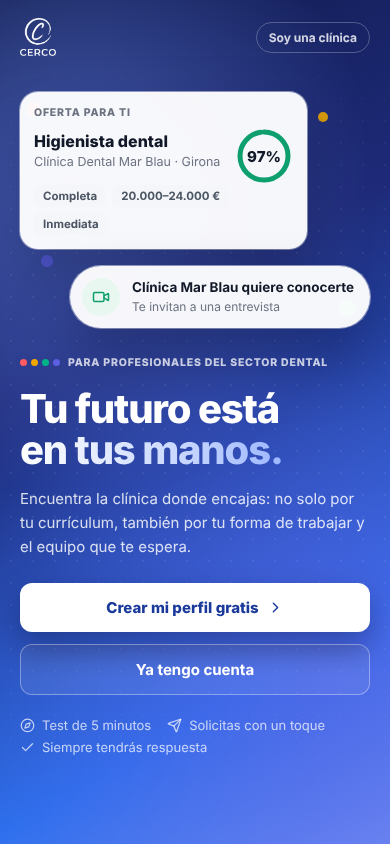
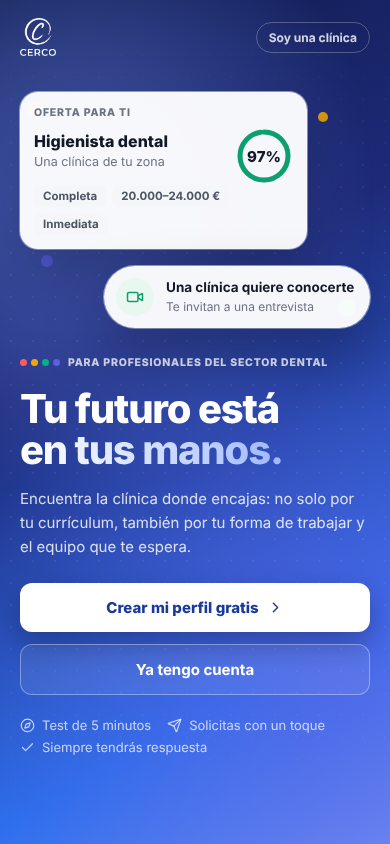
Profesional: sin datos inventados, y una cuenta de clínica siempre ve el aviso
- Una cuenta con ficha de clínica cuenta como clínica aunque aún no la
  haya configurado (antes hacía falta que tuviera nombre, y una clínica
  sin configurar entraba como si fuera profesional): ve «Esta cuenta es
  de una clínica».
- Fuera las ofertas de ejemplo del código y los textos «(de ejemplo)» de
  Seimian.
- Portada: el mismo dibujo, sin una clínica inventada («Una clínica de
  tu zona», «Una clínica quiere conocerte»). Captura de la portada
  actualizada.
Prueba nueva (64-sin-datos-inventados, parte del profesional), que
fallaba antes.

Claude-Session: https://claude.ai/code/session_01L5qSpH5ECCjMh1xfSpjWDJ

Changed region(s): [[0.1538, 0.3081, 0.8308, 0.4005], [0.0923, 0.1848, 0.4308, 0.2156], [0.4615, 0.1848, 0.5538, 0.2156]]

diff --git a/pruebas/e2e/64-sin-datos-inventados.spec.js b/pruebas/e2e/64-sin-datos-inventados.spec.js
@@ -1,0 +1,67 @@
+// En la web real (con «Datos de ejemplo» apagado) nunca salen datos inventados:
+// ni candidatos, ni ofertas, ni clínicas. Y una cuenta de clínica que entra en el
+// lado del profesional ve un aviso claro de que esa cuenta es de clínica.
+const { test, expect, nuevaVentana, vaciarEmulador } = require('../apoyo/entorno');
+const A = require('../apoyo/acciones');
+
+const INVENTADOS = ['María García', 'Jana Moreno', 'Lucía Pérez', 'Ana Castro', 'Marcos Roca', 'Elena Navarro',
+  'David Vidal', 'Paula Solís', 'Óscar Gallego', 'Carmen Ruiz', 'Íñigo Fernández', 'Nerea Blanco',
+  'Mar Blau', 'Madrid Centro', 'Dental Retiro', 'Odontológico Sants', '23 candidatos'];
+async function sinInventados(page, donde) {
+  const texto = await page.evaluate(() => document.body.innerText);
+  for (const n of INVENTADOS) expect(texto.includes(n), `«${n}» sale en ${donde}`).toBe(false);
+}
+
+test('Clínica sin «Datos de ejemplo»: ninguna pantalla enseña datos inventados', async ({ browser }, testInfo) => {
+  await vaciarEmulador();
+  const v = await nuevaVentana(browser, testInfo), c = v.page;
+  await A.registrarClinica(c, `real-${testInfo.project.name}@prueba.es`);
+  await A.configurarClinica(c, {}, { ...A.CLINICA, clinica: 'Clínica Real' });
+  for (const s of ['inicio', 'ofertes', 'portal', 'agenda', 'equipo', 'stats', 'herramientas', 'onboarding', 'publicat', 'mi-cuenta']) {
+    await c.evaluate((s) => { const m = document.getElementById('global-chat-modal'); if (m) m.remove(); showScreen(s); }, s);
+    await c.waitForTimeout(600);
+    await sinInventados(c, 'la pantalla ' + s);
+  }
+  // Candidatos: sin candidatos reales, ni tarjetas ni cuentas inventadas, y se explica cuándo aparecen
+  await c.evaluate(() => showScreen('portal'));
+  await expect(c.locator('#screen-portal .candidate-card').locator('visible=true')).toHaveCount(0);
+  await expect(c.locator('#screen-portal')).not.toContainText('(12)');
+  await expect(c.locator('#portal-aviso-real')).toContainText('Aquí aparecerán las personas que soliciten tus ofertas.');
+  await expect(c.locator('#portal-aviso-real')).toContainText('que las clínicas me inviten');
+  expect(c.erroresPagina).toEqual([]);
+  await v.context.close();
+});
+
+test('Lado del profesional: sin datos inventados, y una cuenta de clínica ve el aviso', async ({ browser }, testInfo) => {
+  test.skip(testInfo.project.name !== 'ordenador', 'basta con un tamaño de pantalla');
+  await vaciarEmulador();
+  // Una cuenta de clínica recién creada, todavía sin configurar
+  const vc = await nuevaVentana(browser, testInfo);
+  await A.registrarClinica(vc.page, 'clinica-sin-configurar@prueba.es');
+  await vc.page.waitForTimeout(2000); // lo que tarda en crear su ficha
+  await vc.context.close();
+  const v = await nuevaVentana(browser, testInfo), p = v.page;
+  await p.goto('/candidato.html');
+  await sinInventados(p, 'la portada');
+  await p.evaluate(() => ir('login'));
+  await p.fill('#li-email', 'clinica-sin-configurar@prueba.es');
+  await p.fill('#li-pwd', A.CLINICA.pwd);
+  await p.click('#li-btn');
+  await expect(p.locator('#v-esclinica')).toBeVisible({ timeout: 20_000 });
+  await expect(p.locator('#v-esclinica')).toContainText('Esta cuenta es de una clínica');
+  // Un profesional, sin ninguna oferta publicada: ninguna oferta inventada
+  const w = await nuevaVentana(browser, testInfo), q = w.page;
+  await A.registrarProfesional(q, 'pro-real@prueba.es');
+  await A.altaProfesional(q);
+  await q.check('#t-consent'); await q.getByRole('button', { name: 'Empezar el test' }).click();
+  await A.contestarTestProfesional(q, { pesos: { D: 1, I: 3, S: 2, C: 4 } });
+  await q.click('#tr-btn'); await q.locator('#gu-next').waitFor(); await q.evaluate(() => guiaCerrar());
+  for (const s of ['inicio', 'ofertas', 'descubrir', 'solicitudes', 'perfil']) {
+    await q.evaluate((s) => ir(s), s); await q.waitForTimeout(800);
+    await sinInventados(q, 'la pantalla ' + s + ' del profesional');
+  }
+  await expect(q.locator('#v-ofertas')).toContainText('Todavía no hay ofertas publicadas');
+  expect(p.erroresPagina).toEqual([]);
+  expect(q.erroresPagina).toEqual([]);
+  await v.context.close(); await w.context.close();
+});

diff --git a/public/profesional/01b-estado-navegacion-y-acceso.js b/public/profesional/01b-estado-navegacion-y-acceso.js
@@ -8,14 +8,7 @@ var S = { perfil:null, ofertas:[], ofertasCargadas:false, sols:[], solsCargadas:
 var _unsubSol = null;
 var _estadosVistos = {}, _msgsVistos = {}, _citasVistas = {};
 
-var EJEMPLOS = [
-  {id:'ej1', ejemplo:true, titulo:'Higienista dental', clinica:'Clínica Dental Mar Blau', ubicacion:'Girona', jornada:'Completa', salario:'20.000–24.000 €', disponibilidad:'Inmediata', perfiles:['I','S'],
-   descripcion:'Buscamos higienista para un equipo de seis personas. Trato muy cercano con el paciente, agenda bien organizada y formación continua pagada por la clínica.', requisitos:'Técnico Superior en Higiene Bucodental\nExperiencia en periodoncia valorable\nGanas de trabajar en equipo', fecha:new Date(Date.now()-2*86400000).toISOString()},
-  {id:'ej2', ejemplo:true, titulo:'Auxiliar de clínica dental', clinica:'Centro Odontológico Sants', ubicacion:'Barcelona', jornada:'Parcial', salario:'A convenir', disponibilidad:'En 15 días', perfiles:['S','C'],
-   descripcion:'Asistencia en gabinete, esterilización y preparación de material. Horario de tardes.', requisitos:'Título de Auxiliar de Enfermería o similar\nRigor con los protocolos de esterilización', fecha:new Date(Date.now()-5*86400000).toISOString()},
-  {id:'ej3', ejemplo:true, titulo:'Coordinador/a de recepción', clinica:'Clínica Dental Retiro', ubicacion:'Madrid', jornada:'Completa', salario:'22.000 €', disponibilidad:'En 1 mes', perfiles:['D','I'],
-   descripcion:'Llevarás la agenda de cuatro doctores, la relación con los pacientes y los presupuestos.', requisitos:'Experiencia en atención al paciente\nManejo de software de gestión clínica', fecha:new Date(Date.now()-86400000).toISOString()}
-];
+// (Las ofertas de ejemplo se han quitado: en la web real nunca salen datos inventados.)
 
 /* Ofertas que se ven: todas menos las de clínicas que la persona ha bloqueado (Fase 1: una sola versión) */
 function ofertasVisibles(){
@@ -59,7 +52,7 @@ function ofertasCerca(l){
   return { dentro:dentro, fuera:fuera };
 }
 function buscarOferta(id){
-  var l = S.ofertas.concat(EJEMPLOS);
+  var l = S.ofertas;
   for(var i=0;i<l.length;i++) if(String(l[i].id) === String(id)) return l[i];
   return null;
 }

diff --git a/candidato.html b/candidato.html
@@ -68,7 +68,7 @@
       <span class="po-orb" style="width:12px;height:12px;background:#5B5FE0;left:6%;bottom:30%;animation-delay:-9s;"></span>
       <div class="pc pc-of">
         <div class="pc-k">Oferta para ti</div>
-        <div class="row"><div style="min-width:0;"><div class="t">Higienista dental</div><div class="c">Clínica Dental Mar Blau · Girona</div></div>
+        <div class="row"><div style="min-width:0;"><div class="t">Higienista dental</div><div class="c">Una clínica de tu zona</div></div>
           <svg width="58" height="58" viewBox="0 0 58 58" style="flex-shrink:0;"><circle cx="29" cy="29" r="24" fill="none" stroke="#EEF0F3" stroke-width="5"/><circle cx="29" cy="29" r="24" fill="none" stroke="#0E9F6E" stroke-width="5" stroke-linecap="round" stroke-dasharray="146.3 150.8" transform="rotate(-90 29 29)"/><text x="50%" y="50%" dominant-baseline="central" text-anchor="middle" font-size="15" font-weight="800" fill="#111827">97%</text></svg></div>
         <div class="tags"><span>Completa</span><span>20.000–24.000 €</span><span>Inmediata</span></div>
       </div>
@@ -80,7 +80,7 @@
         <div class="br"><span style="color:#5B5FE0">C</span><div class="tr"><div style="width:44%;background:#5B5FE0"></div></div><span>44%</span></div>
         <div class="br"><span style="color:#FF5A5F">D</span><div class="tr"><div style="width:31%;background:#FF5A5F"></div></div><span>31%</span></div>
       </div>
-      <div class="pc pc-noti"><div class="ic"><span data-ico="video" data-s="18" data-c="#0E9F6E"></span></div><div><b>Clínica Mar Blau quiere conocerte</b><small>Te invitan a una entrevista</small></div></div>
+      <div class="pc pc-noti"><div class="ic"><span data-ico="video" data-s="18" data-c="#0E9F6E"></span></div><div><b>Una clínica quiere conocerte</b><small>Te invitan a una entrevista</small></div></div>
     </div>
   </div>
 </section>

diff --git a/public/profesional/01f-seimian-cita-y-mensajes.js b/public/profesional/01f-seimian-cita-y-mensajes.js
@@ -163,8 +163,7 @@ function seiOfertas(d){
     .map(function(o){ return {o:o, p:encaje(d, o)}; }).filter(function(x){ return x.p !== null; })
     .sort(function(a,b){ return b.p - a.p; }).slice(0,3);
   if(!l.length) return 'Ahora mismo no hay ofertas nuevas que no hayas solicitado. Te aviso aquí cuando se publiquen.';
-  var h = (!hayReales() ? 'Todavía no hay ofertas reales; con las de ejemplo, así lo vería:'
-    : lejos ? 'No hay ofertas ' + esc(txtRadio(pf.radio||25, pf.geo)) + '. De las que hay más lejos, estas te encajan mejor:'
+  var h = (lejos ? 'No hay ofertas ' + esc(txtRadio(pf.radio||25, pf.geo)) + '. De las que hay más lejos, estas te encajan mejor:'
     : 'Estas son las que mejor te encajan' + (pf.geo ? ' ' + esc(txtRadio(pf.radio||25, pf.geo)) : '') + ':') + '<ol class="sei-ol">';
   l.forEach(function(x){
     var ps = perfilesDe(x.o), coinc = ps.filter(function(k){ return k === d.dom || k === d.sec; });
@@ -219,7 +218,7 @@ function seiSalario(){
   var d = S.perfil && S.perfil.disc;
   l = l.slice().sort(function(a,b){ return (encaje(d,b)||0) - (encaje(d,a)||0); }).slice(0,4);
   var rolP = (S.perfil||{}).profesion, gs = txtGuia(guiaSalarial(PROF_RE[rolP] ? rolP : null, ((S.perfil||{}).geo||{}).prov), rolP);
-  return (gs ? gs + '<br><br>' : '') + 'Lo que pagan las ofertas que más te encajan' + (hayReales() ? '' : ' (de ejemplo)') + ':<ol class="sei-ol">'
+  return (gs ? gs + '<br><br>' : '') + 'Lo que pagan las ofertas que más te encajan:<ol class="sei-ol">'
     + l.map(function(o){ return '<li><button class="sei-link" onclick="cerrarSeimian(); ir(\'oferta\',\''+esc(o.id)+'\')">'+esc(o.titulo)+'</button>: <b>'+esc(o.salario)+'</b></li>'; }).join('')
     + '</ol>Todas las clínicas de CERCO tienen que indicar el salario antes de la entrevista. En la entrevista no te pueden preguntar cuánto cobrabas antes.';
 }

diff --git a/public/profesional/01a-base-y-nube.js b/public/profesional/01a-base-y-nube.js
@@ -265,7 +265,7 @@ var Nube = {
   },
   esClinica: function(){
     return this.db().collection('clinicas').doc(this.uid).get()
-      .then(function(d){ return d.exists && !!(d.data()||{}).nom; }).catch(function(){ return false; });
+      .then(function(d){ return d.exists; }).catch(function(){ return false; });   // aunque aún no la haya configurado
   },
   escucharOfertas: function(fn){
     return this.db().collection('ofertas_publicas').where('estado','==','activa').onSnapshot(function(s){
